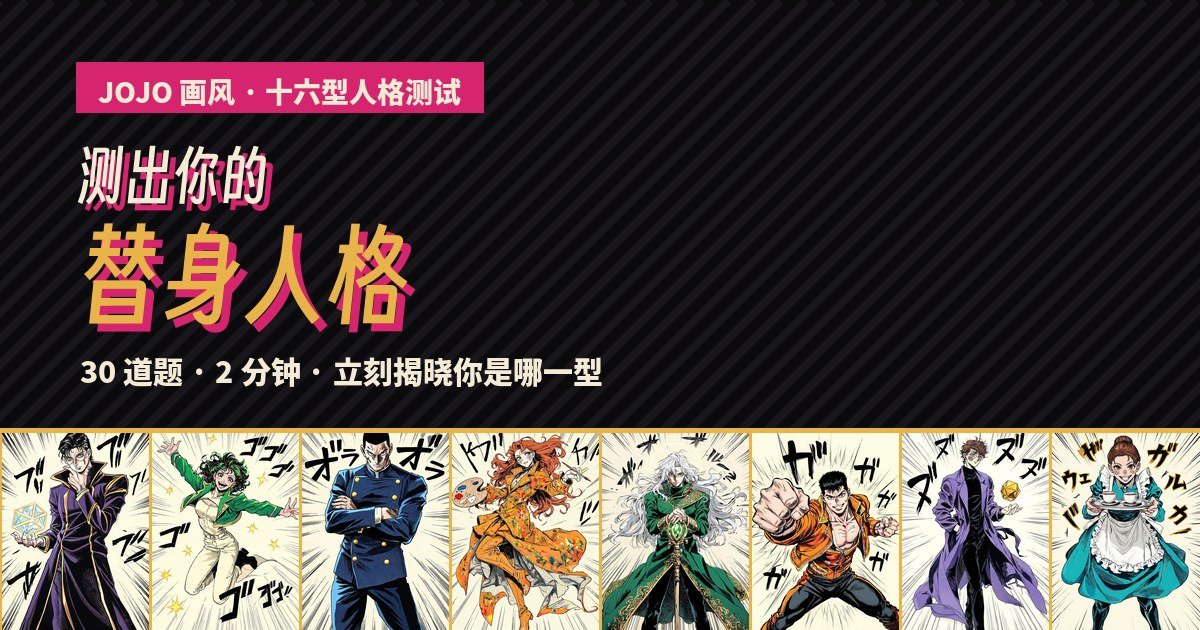
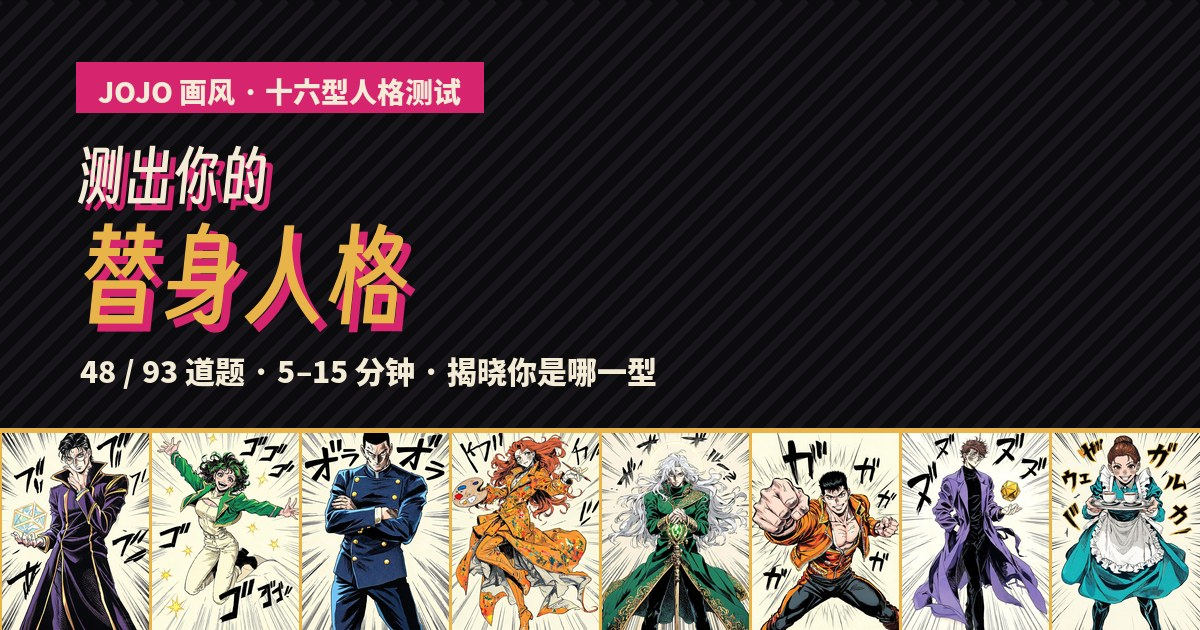
feat: 改为五档李克特量表并修复题库反向题与维度错配

Changed region(s): [[0.0617, 0.5429, 0.555, 0.6333]]

diff --git a/mbti.html b/mbti.html
@@ -4,23 +4,23 @@
 <meta charset="UTF-8">
 <meta name="viewport" content="width=device-width, initial-scale=1.0">
 <title>JOJO 画风 MBTI 十六型人格测试 | 测出你的替身人格</title>
-<meta name="description" content="30 道题，2 分钟，测出你是 16 型人格中的哪一位。全站 JoJo（荒木飞吕彦）画风立绘，看看你的替身长什么样。">
+<meta name="description" content="48 题快速版或 93 题完整版，5–15 分钟，测出你是 16 型人格中的哪一位。全站 JoJo（荒木飞吕彦）画风立绘，看看你的替身长什么样。">
 <meta name="theme-color" content="#0B0A0C">
 <link rel="image_src" href="https://c0ng-alex.github.io/jojo-mbti/assets/share-cover.jpg">
 <meta itemprop="name" content="JOJO 画风 MBTI 十六型人格测试">
-<meta itemprop="description" content="30 道题，2 分钟，测出你是 16 型人格中的哪一位。">
+<meta itemprop="description" content="48 题快速版或 93 题完整版，5–15 分钟出结果。">
 <meta itemprop="image" content="https://c0ng-alex.github.io/jojo-mbti/assets/share-cover.jpg">
 <meta property="og:type" content="website">
 <meta property="og:site_name" content="JOJO 风 MBTI">
 <meta property="og:title" content="测出你的替身人格 | JOJO 画风 MBTI 测试">
-<meta property="og:description" content="30 道题，2 分钟，测出你是 16 型人格中的哪一位。">
+<meta property="og:description" content="48 题快速版或 93 题完整版，5–15 分钟出结果。">
 <meta property="og:image" content="https://c0ng-alex.github.io/jojo-mbti/assets/share-cover.jpg">
 <meta property="og:image:width" content="1200">
 <meta property="og:image:height" content="630">
 <meta property="og:url" content="https://c0ng-alex.github.io/jojo-mbti/">
 <meta name="twitter:card" content="summary_large_image">
 <meta name="twitter:title" content="测出你的替身人格 | JOJO 画风 MBTI 测试">
-<meta name="twitter:description" content="30 道题，2 分钟，测出你是 16 型人格中的哪一位。">
+<meta name="twitter:description" content="48 题快速版或 93 题完整版，5–15 分钟出结果。">
 <meta name="twitter:image" content="https://c0ng-alex.github.io/jojo-mbti/assets/share-cover.jpg">
 <style>
   * { margin: 0; padding: 0; box-sizing: border-box; }
@@ -1238,6 +1238,54 @@
     box-shadow: 4px 4px 0 var(--jj-magenta);
   }
 
+  /* === 五档量表 === */
+  .q-poles {
+    display: grid;
+    gap: 10px;
+    margin: 6px 0 24px;
+    text-align: left;
+  }
+  .q-pole {
+    display: flex;
+    align-items: flex-start;
+    gap: 12px;
+    padding: 14px 16px;
+    background: #FBF6E9;
+    border: 3px solid var(--jj-ink);
+    box-shadow: 4px 4px 0 rgba(0,0,0,0.35);
+    font-weight: 700;
+    line-height: 1.5;
+  }
+  .q-pole .pole-tag {
+    flex: none;
+    background: var(--jj-ink);
+    color: var(--jj-gold);
+    font-weight: 900;
+    font-style: italic;
+    padding: 1px 9px;
+    font-size: 0.9em;
+  }
+  .options.likert {
+    flex-direction: row;
+    gap: 8px;
+  }
+  .options.likert .option-btn {
+    flex: 1 1 0;
+    padding: 16px 4px;
+    font-size: 0.85em;
+    text-align: center;
+    line-height: 1.35;
+  }
+  .options.likert .option-btn.selected {
+    background: var(--jj-gold) !important;
+    color: var(--jj-ink) !important;
+  }
+  @media (max-width: 520px) {
+    .options.likert { gap: 5px; }
+    .options.likert .option-btn { font-size: 0.7em; padding: 12px 2px; }
+    .q-pole { padding: 11px 12px; font-size: 0.92em; }
+  }
+
   /* ---- 结果页 ---- */
   .result-header {
     background: var(--jj-cream) !important;
@@ -1651,7 +1699,7 @@
 const questions_48 = [
   // === E vs I (外向 vs 内向) ===
   { q: '在一个热闹的聚会后，你通常会：', options: ['感到精力充沛，还想继续社交', '感到疲惫，需要独处来恢复精力'], dim: 'EI', val: 'E' },
-  { q: '你更喜欢的工作环境是：', options: ['开放的、鼓励团队交流的办公室', '安静的、可以专注独立工作的空间'], dim: 'EI', val: 'I' },
+  { q: '你更喜欢的工作环境是：', options: ['开放的、鼓励团队交流的办公室', '安静的、可以专注独立工作的空间'], dim: 'EI', val: 'E' },
   { q: '当你有一个想法时，你倾向于：', options: ['找别人讨论，在交流中完善想法', '先自己仔细思考，成熟后再分享'], dim: 'EI', val: 'E' },
   { q: '周末的时候，你更愿意：', options: ['和朋友出去玩，参加各种活动', '待在家里看书、看电影或独处'], dim: 'EI', val: 'E' },
   { q: '在团队中，你通常是：', options: ['积极发言，带动讨论气氛', '倾听为主，深思熟虑后再发言'], dim: 'EI', val: 'E' },
@@ -1743,7 +1791,7 @@ const questions_93 = [
   { q: '你觉得自己是个：', options: ['脚踏实地的人', '充满想象力的人'], dim: 'SN', val: 'S' },
   { q: '学新东西时你喜欢：', options: ['先动手做，边做边学', '先看理论，理解原理'], dim: 'SN', val: 'S' },
   { q: '你更欣赏：', options: ['技术熟练的工匠', '创意十足的设计师'], dim: 'SN', val: 'S' },
-  { q: '面对未来，你会：', options: ['做好计划一步步走', '顺其自然，船到桥头自然直'], dim: 'SN', val: 'S' },
+  { q: '你更看重一份工作里的：', options: ['稳定清晰的流程和确定性', '探索未知方向的可能性'], dim: 'SN', val: 'S' },
   { q: '你觉得"也许"这个词：', options: ['不够确定，不踏实', '充满可能性，很有意思'], dim: 'SN', val: 'S' },
   { q: '读完一本书，你会：', options: ['记得具体情节和细节', '记得整体感觉和启示'], dim: 'SN', val: 'S' },
   { q: '你更容易被什么吸引：', options: ['实用的功能和设计', '漂亮的概念和创意'], dim: 'SN', val: 'S' },
@@ -2040,7 +2088,7 @@ const personalities = {
 // ============================================
 let currentQuestion = 0;
 let answers = new Array(currentQuestions.length).fill(null);
-const STORAGE_KEY_BASE = 'mbti_test_progress_';
+const STORAGE_KEY_BASE = 'mbti_test_progress_v2_';
 const getStorageKey = () => STORAGE_KEY_BASE + quizMode;
 
 // === 初始化 ===
@@ -3421,16 +3469,43 @@ function showQuestion() {
   const questionBox = document.getElementById('question-box');
   questionBox.className = 'question-box fade-in';
   document.getElementById('current-q').textContent = currentQuestion + 1;
-  document.getElementById('question-text').textContent = q.q;
-  
+
+  // 题干 + A/B 两极陈述
+  const questionText = document.getElementById('question-text');
+  questionText.innerHTML = '';
+
+  const prompt = document.createElement('div');
+  prompt.className = 'q-prompt';
+  prompt.textContent = q.q;
+  questionText.appendChild(prompt);
+
+  const poles = document.createElement('div');
+  poles.className = 'q-poles';
+  [String(q.options[0]), String(q.options[1])].forEach((txt, idx) => {
+    const row = document.createElement('div');
+    row.className = 'q-pole';
+    const tag = document.createElement('span');
+    tag.className = 'pole-tag';
+    tag.textContent = idx === 0 ? 'A' : 'B';
+    const body = document.createElement('span');
+    body.textContent = txt;
+    row.appendChild(tag);
+    row.appendChild(body);
+    poles.appendChild(row);
+  });
+  questionText.appendChild(poles);
+
   document.getElementById('progress-bar').style.width = ((currentQuestion + 1) / currentQuestions.length * 100) + '%';
-  
+
+  // 五档选项：0=非常A 1=偏向A 2=都不像 3=偏向B 4=非常B
   const optionsDiv = document.getElementById('options');
+  optionsDiv.className = 'options likert';
   optionsDiv.innerHTML = '';
-  q.options.forEach((opt, i) => {
+  const likertLabels = ['非常 A', '偏向 A', '都不像', '偏向 B', '非常 B'];
+  likertLabels.forEach((label, i) => {
     const btn = document.createElement('button');
     btn.className = 'option-btn';
-    btn.textContent = opt;
+    btn.textContent = label;
     btn.onclick = () => selectOption(i);
     if (answers[currentQuestion] === i) {
       btn.classList.add('selected');
@@ -3474,25 +3549,32 @@ function prevQuestion() {
 function calculateResult() {
   clearSavedProgress();
   let scores = { E: 0, I: 0, S: 0, N: 0, T: 0, F: 0, J: 0, P: 0 };
-  
+
+  // 五档权重：0=非常A(+2) 1=偏向A(+1) 2=都不像(0) 3=偏向B(-1) 4=非常B(-2)
+  const WEIGHTS = [2, 1, 0, -1, -2];
+
   currentQuestions.forEach((q, i) => {
-    if (answers[i] !== null) {
-      const selectedVal = answers[i] === 0 ? q.val : (q.val === q.dim[0] ? q.dim[1] : q.dim[0]);
-      scores[selectedVal]++;
-    }
+    const ans = answers[i];
+    if (ans === null || ans === undefined) return;
+    const aLetter = q.val;                                    // A 选项对应字母
+    const bLetter = q.dim[0] === aLetter ? q.dim[1] : q.dim[0];
+    const w = WEIGHTS[ans] || 0;
+    if (w > 0) scores[aLetter] += w;
+    else if (w < 0) scores[bLetter] += -w;
   });
-  
-  const ePercent = Math.round(scores.E / (scores.E + scores.I) * 100);
-  const sPercent = Math.round(scores.S / (scores.S + scores.N) * 100);
-  const tPercent = Math.round(scores.T / (scores.T + scores.F) * 100);
-  const jPercent = Math.round(scores.J / (scores.J + scores.P) * 100);
-  
+
+  const pct = (l, r) => (l + r === 0 ? 50 : Math.round(l / (l + r) * 100));
+  const ePercent = pct(scores.E, scores.I);
+  const sPercent = pct(scores.S, scores.N);
+  const tPercent = pct(scores.T, scores.F);
+  const jPercent = pct(scores.J, scores.P);
+
   const resultType = 
-    (ePercent >= 50 ? 'E' : 'I') +
-    (sPercent >= 50 ? 'S' : 'N') +
-    (tPercent >= 50 ? 'T' : 'F') +
-    (jPercent >= 50 ? 'J' : 'P');
-  
+    (ePercent > 50 ? 'E' : ePercent < 50 ? 'I' : (scores.E >= scores.I ? 'E' : 'I')) +
+    (sPercent > 50 ? 'S' : sPercent < 50 ? 'N' : (scores.S >= scores.N ? 'S' : 'N')) +
+    (tPercent > 50 ? 'T' : tPercent < 50 ? 'F' : (scores.T >= scores.F ? 'T' : 'F')) +
+    (jPercent > 50 ? 'J' : jPercent < 50 ? 'P' : (scores.J >= scores.P ? 'J' : 'P'));
+
   showResult(resultType, { ePercent, sPercent, tPercent, jPercent });
 }
 

diff --git a/index.html b/index.html
@@ -4,9 +4,9 @@
 <meta charset="UTF-8">
 <meta name="viewport" content="width=device-width, initial-scale=1.0">
 <title>JOJO 画风 MBTI 十六型人格测试</title>
-<meta name="description" content="30 道题，2 分钟，测出你是 16 型人格中的哪一位。">
+<meta name="description" content="48 题快速版或 93 题完整版，5–15 分钟出结果。">
 <meta property="og:title" content="测出你的替身人格 | JOJO 画风 MBTI 测试">
-<meta property="og:description" content="30 道题，2 分钟，测出你是 16 型人格中的哪一位。">
+<meta property="og:description" content="48 题快速版或 93 题完整版，5–15 分钟出结果。">
 <meta property="og:image" content="https://c0ng-alex.github.io/jojo-mbti/assets/share-cover.jpg">
 <meta property="og:url" content="https://c0ng-alex.github.io/jojo-mbti/">
 <meta http-equiv="refresh" content="0; url=./mbti.html">
